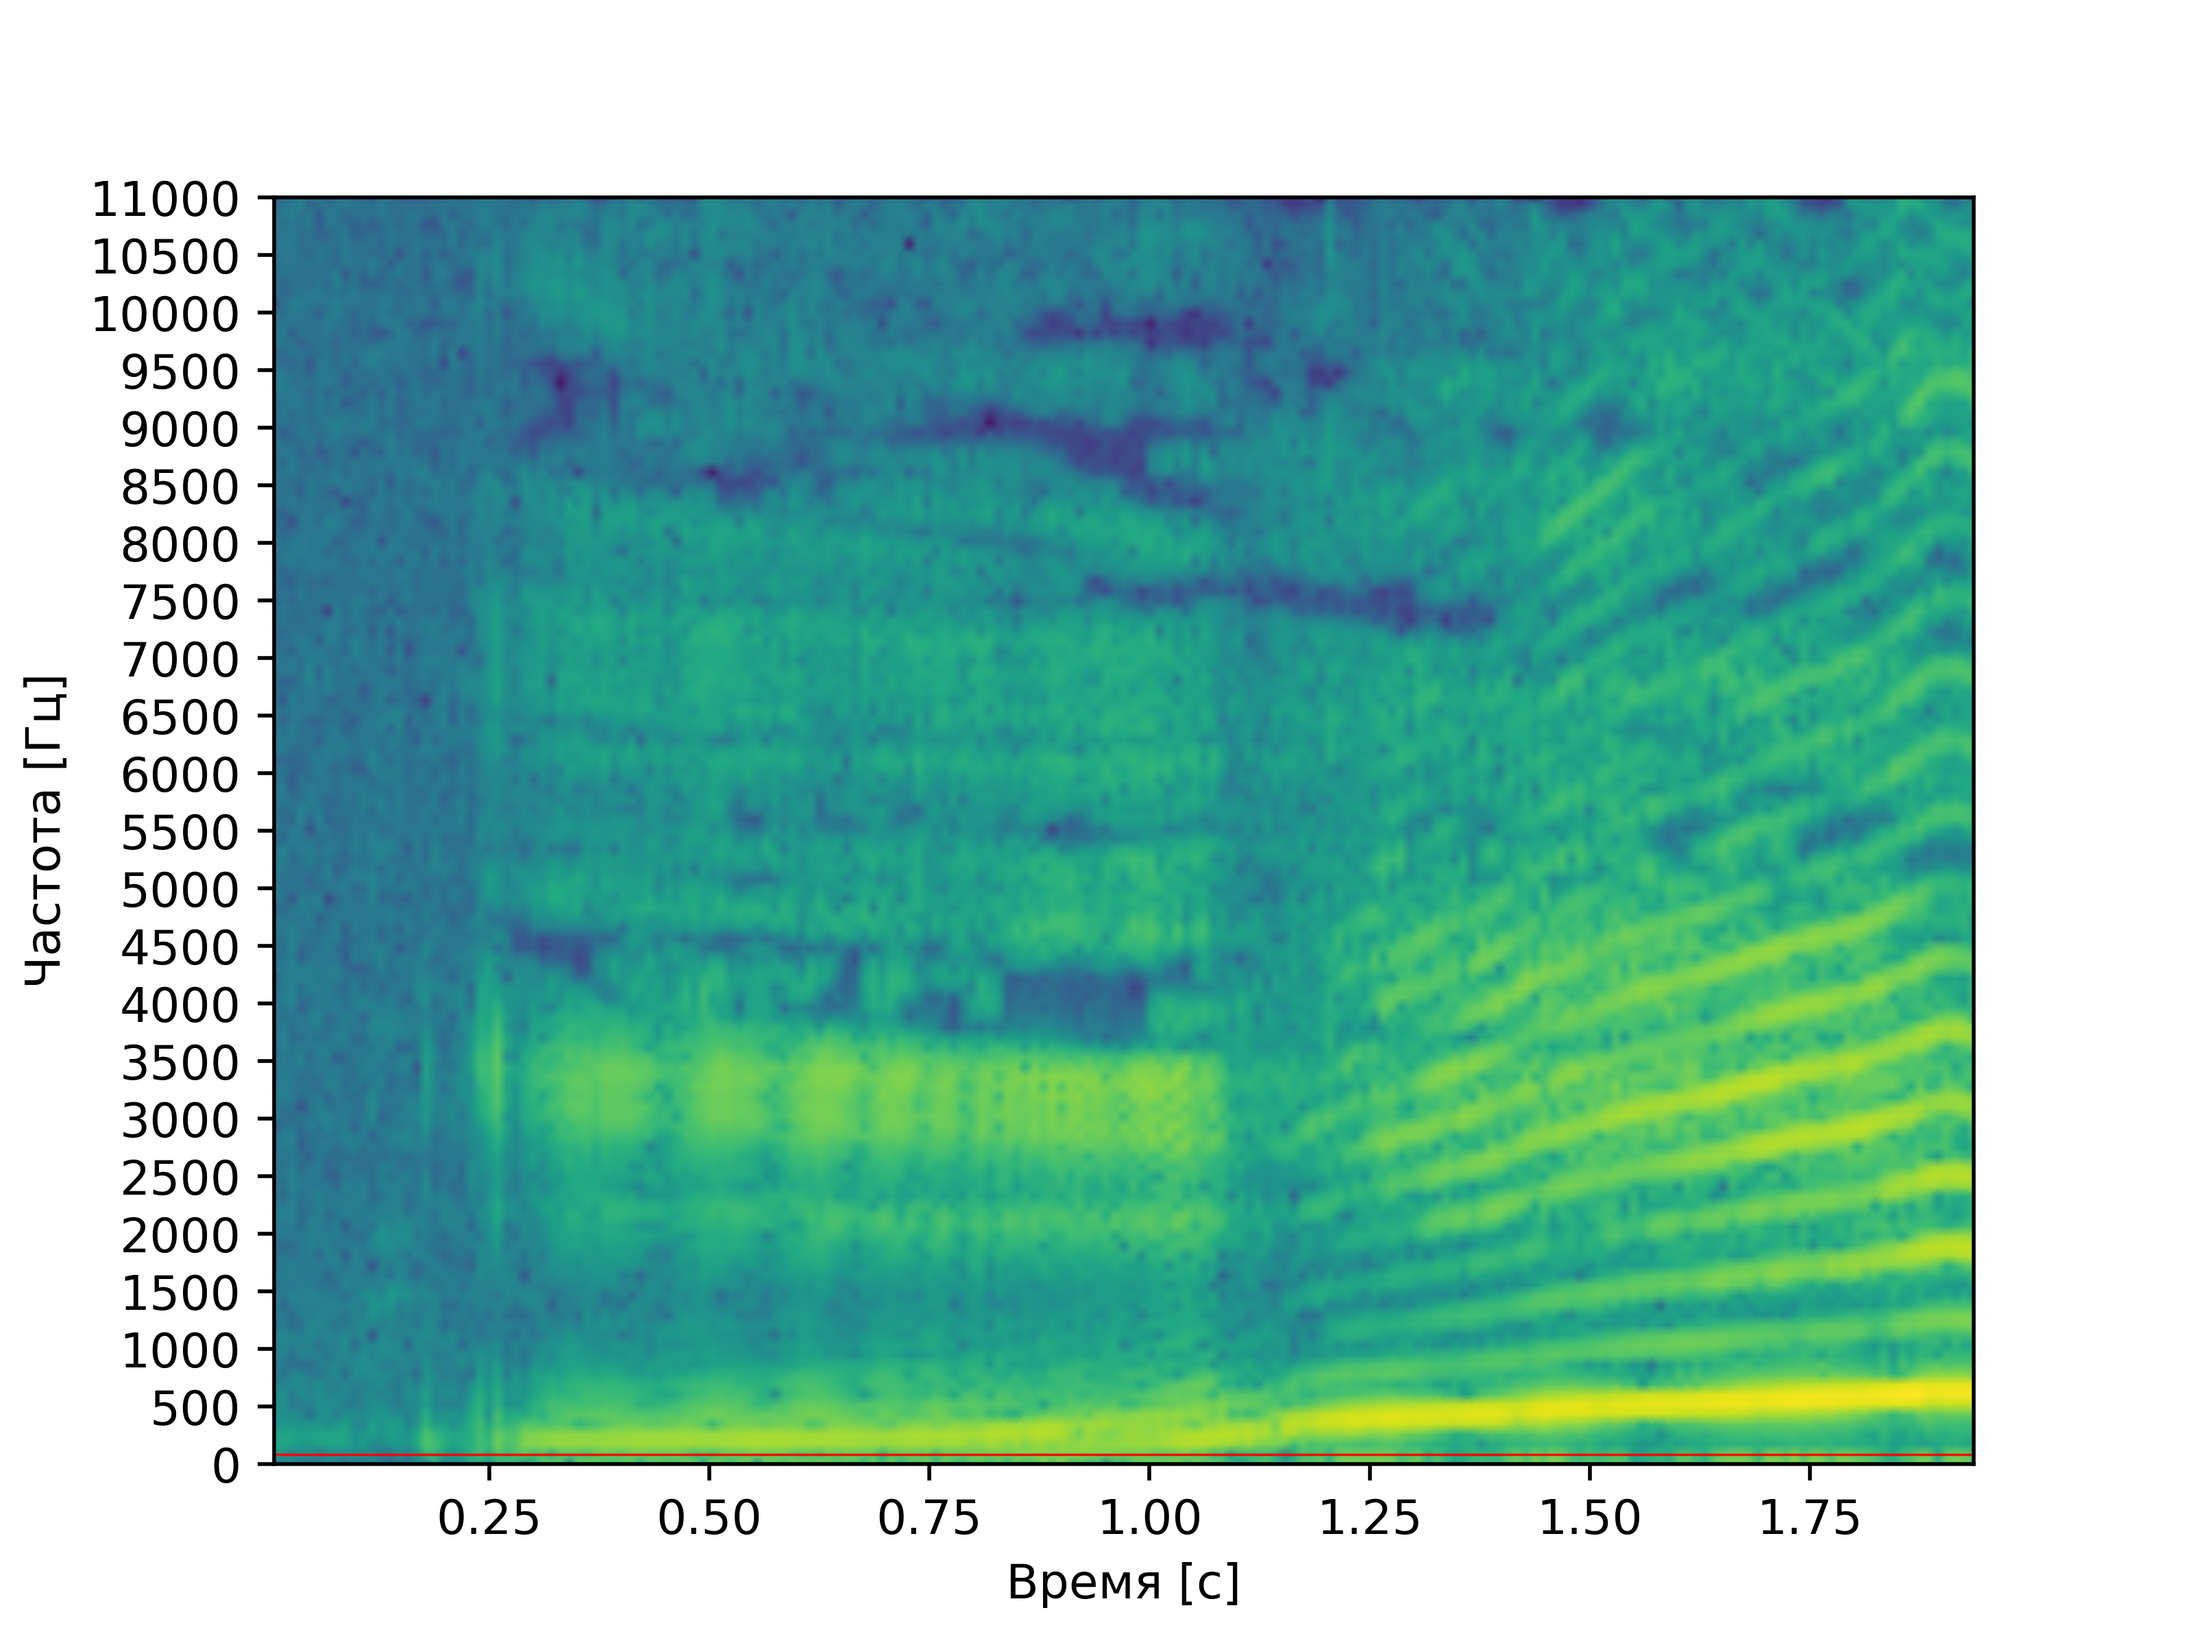
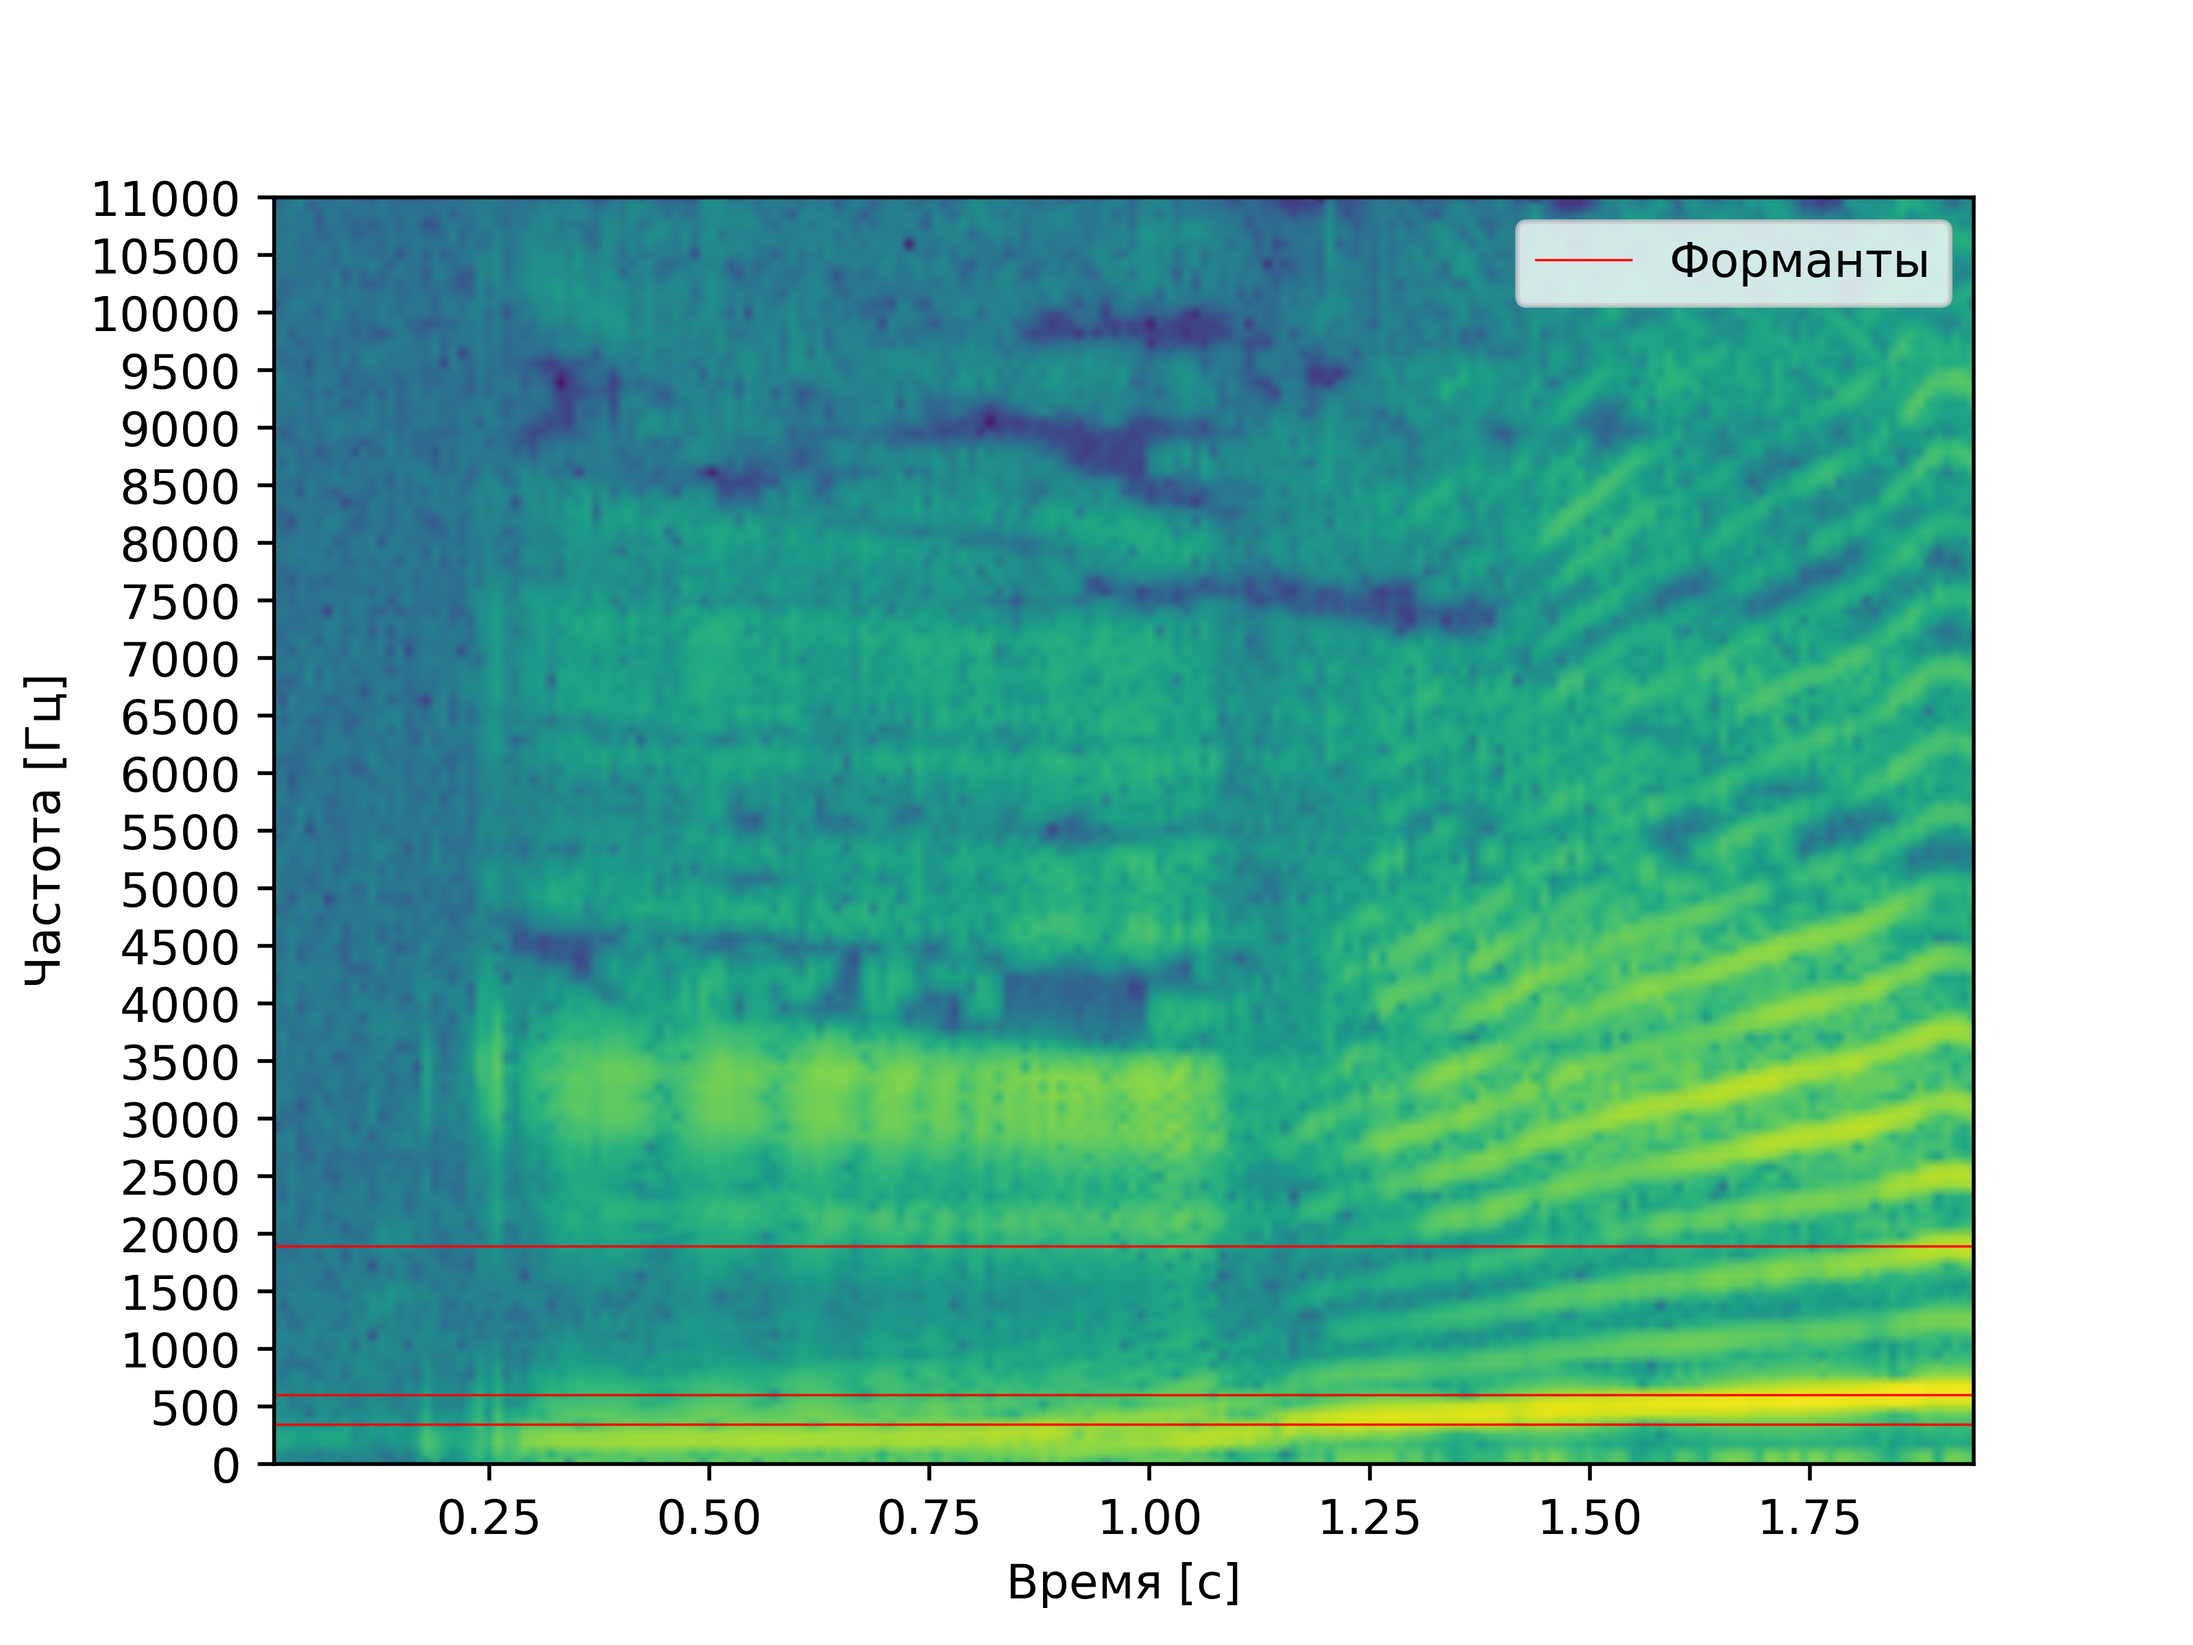
Finish the last laba.

Changed region(s): [[0.125, 0.8438, 0.9062, 0.875], [0.6875, 0.125, 0.9062, 0.1875]]

diff --git a/laba10/main.py b/laba10/main.py
@@ -22,26 +22,36 @@ if __name__ == '__main__':
 
    dpi = 500
    spectogram_a, frequencies_a = spectrogram_plot(samples_a, sample_rate_a, 11000)
-#    plt.axhline(y = 602,  color = 'r', linestyle = '-', lw= 0.5)
+   plt.axhline(y = 602,  color = 'r', linestyle = '-', lw= 0.5, label = "Форманты")
+   plt.axhline(y = 861,  color = 'r', linestyle = '-', lw= 0.5)
+   plt.axhline(y = 1119,  color = 'r', linestyle = '-', lw= 0.5)
+   plt.legend()
    plt.savefig('results/spectrogram_a.png', dpi = dpi)
    plt.clf()
 
    changeSampleRate("voice_i.wav")
    sample_rate_i , samples_i = wavfile.read("results/wavs/voice_i.wav")
    spectogram_i, frequencies_i = spectrogram_plot(samples_i, sample_rate_i, 11000)
-#    plt.axhline(y = 86,  color = 'r', linestyle = '-', lw= 0.5)
+   plt.axhline(y = 344,  color = 'r', linestyle = '-', lw= 0.5, label = "Форманты")
+   plt.axhline(y = 602,  color = 'r', linestyle = '-', lw= 0.5)
+   plt.axhline(y = 1894,  color = 'r', linestyle = '-', lw= 0.5)
+   plt.legend()
    plt.savefig('results/spectrogram_i.png', dpi = dpi)
    plt.clf()
 
    changeSampleRate("voice_gav.wav")
    sample_rate_gav , samples_gav = wavfile.read("results/wavs/voice_gav.wav")
    spectogram_gav, frequencies_gav = spectrogram_plot(samples_gav, sample_rate_gav, 11000)
+   plt.axhline(y = 344,  color = 'r', linestyle = '-', lw= 0.5, label = "Форманты")
+   plt.axhline(y = 602,  color = 'r', linestyle = '-', lw= 0.5)
+   plt.axhline(y = 1119,  color = 'r', linestyle = '-', lw= 0.5)
+   plt.legend()
    plt.savefig('results/spectrogram_gav.png', dpi = dpi)
    plt.clf()
 
    spec_a = integral_image(spectogram_a)
    
-   formants_a = list(find_all_formants(frequencies_a, spec_a, 1))
+   formants_a = list(find_all_formants(frequencies_a, spec_a, 3))
    formants_a.sort()
 
    print("Минимальная частота для звука А: " + str(formants_a[0]))
@@ -49,7 +59,7 @@ if __name__ == '__main__':
 
    print("Тембрально окрашенный тон для звука А: " + str(formants_a[0]))
 
-   power_a = power(frequencies_a, spec_a, 1, formants_a)
+   power_a = power(frequencies_a, spec_a, 3, formants_a)
    print(sorted(power_a.values()))
    print(sorted(power_a.items(), key = lambda item: item[1], reverse=True))
    print("Три самые сильные форманты: " + str(sorted(power_a, key=lambda i: power_a[i])[-3:]))
@@ -74,10 +84,10 @@ if __name__ == '__main__':
    formants_gav = list(find_all_formants(frequencies_gav, spec_gav, 1))
    formants_gav.sort()
 
-   print("Минимальная частота для звука А: " + str(formants_gav[0]))
-   print("Максимальная частота для звука А: " + str(formants_gav[-1]))
+   print("Минимальная частота для звука ГАВ: " + str(formants_gav[0]))
+   print("Максимальная частота для звука ГАВ: " + str(formants_gav[-1]))
 
-   print("Тембрально окрашенный тон для звука А: " + str(formants_gav[0]))
+   print("Тембрально окрашенный тон для звука ГАВ: " + str(formants_gav[0]))
 
    power_gav = power(frequencies_gav, spec_gav, 1, formants_gav)
    print(sorted(power_a.values()))

diff --git a/laba10/README.md b/laba10/README.md
@@ -9,25 +9,27 @@
 ![](results/spectrogram_a.png)
 
 ### Анализ
-**Основной тон:** (если брать среднее ото всех зафиксированных частот) примерно XXX Гц
+**Основной тон:** примерно 86 Гц
 
-**Форманты:** форманта **FI** находится на частоте примерно XXX Гц, **FII** на частоте примерно XXX Гц,
-**FIII** на частоте XXX Гц. После них идет провал,
-и следующие неосновные две форманты появляются на частотах
-приблизительно в XXX Гц и XXX Гц
+**Форманты:** форманта **FI** находится на частоте примерно 602 Гц, **FII** на частоте примерно 861 Гц,
+**FIII** на частоте 1119 Гц.
+
+**Максимальная частоста:** 3445 Гц
 
 ## Спектрограмма записи звука "И" по наростающей
 ![](results/spectrogram_i.png)
 
 ### Анализ
-**Основной тон:** (если брать среднее ото всех зафиксированных частот) примерно XXX Гц
+**Основной тон:** примерно 86 Гц
 
-**Форманты:** основная форманта **FI** находится на частоте примерно XXX Гц, далее, после провала прослеживается **FII** на частоте примерно XXX Гц, еще выше  **FIII** на частоте XXX Гц. После можно различить
-**FIV** на частоте XXX Гц.
+**Форманты:** основная форманта **FI** находится на частоте примерно 344 Гц, далее, после провала прослеживается **FII** на частоте примерно 602 Гц, еще выше  **FIII** на частоте 1894 Гц.
+
+**Максимальная частоста:** 4478 Гц
 
 ## Спектрограмма записи лая
 ![](results/spectrogram_gav.png)
 
 ### Анализ
-**Форманты:** в целом похожи на форманты буквы "А", но по частоте ниже: первая основная **FI** XXX Гц, вторая основная **FII** - XXX Гц, третья основная **FIII** - XXX Гц.
-Так же просматривается еще одна неосновная на частоте XXX Гц.
+**Форманты:** в целом похожи на форманты буквы "А", но по частоте ниже: первая основная **FI** 344 Гц, вторая основная **FII** - 602 Гц, третья основная **FIII** - 1119 Гц.
+
+**Максимальная частоста:** 8354 Гц
